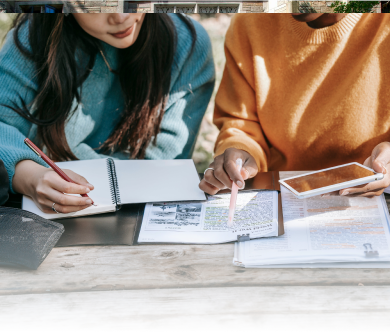
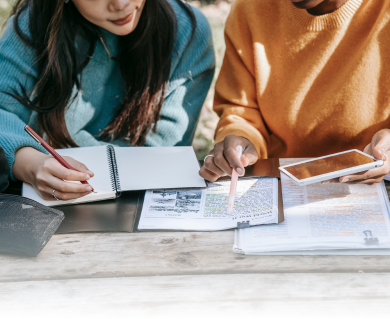
sixthform choices

diff --git a/src/components/sixthform/sixthformChoices/components/secondStep/SecondStepWelcome.tsx b/src/components/sixthform/sixthformChoices/components/secondStep/SecondStepWelcome.tsx
@@ -12,7 +12,7 @@ interface WelcomeProps {
 
 const SecondStepWelcome: React.FC<WelcomeProps> = (props) => {
   return (
-    <div className="question">
+    <div className="question question-subject-welcome">
     {isPhone()
       ? <img src="/images/choicesTool/phone/subjects.png" className="step2background-img" />
       : <img src="/images/choicesTool/Step3background.png" className="step2background-img" />
@@ -24,7 +24,7 @@ const SecondStepWelcome: React.FC<WelcomeProps> = (props) => {
       </div>
     </div>
     <BackButtonSix onClick={props.moveBack} />
-    {props.canSkip && <div className="absolute-skip-btn font-24" onClick={props.onSkip}>Skip to end<SpriteIcon name="Skip-six" /></div>}
+    {!isPhone() && props.canSkip && <div className="absolute-skip-btn font-24" onClick={props.onSkip}>Skip to end<SpriteIcon name="Skip-six" /></div>}
     <button
       className="absolute-contunue-btn font-24"
       onClick={props.moveNext}

diff --git a/src/components/sixthform/sixthformChoices/themes/SixthformChoicesMobile.scss b/src/components/sixthform/sixthformChoices/themes/SixthformChoicesMobile.scss
@@ -798,4 +798,16 @@
       max-width: 92vw;
     }
   }
+
+  .question-subject-welcome {
+    .text-container-5432 {
+      left: 4vw;
+      text-align: center;
+      height: 100vw;
+
+      > div {
+        width: 92vw;
+      }
+    }
+  }
 }
